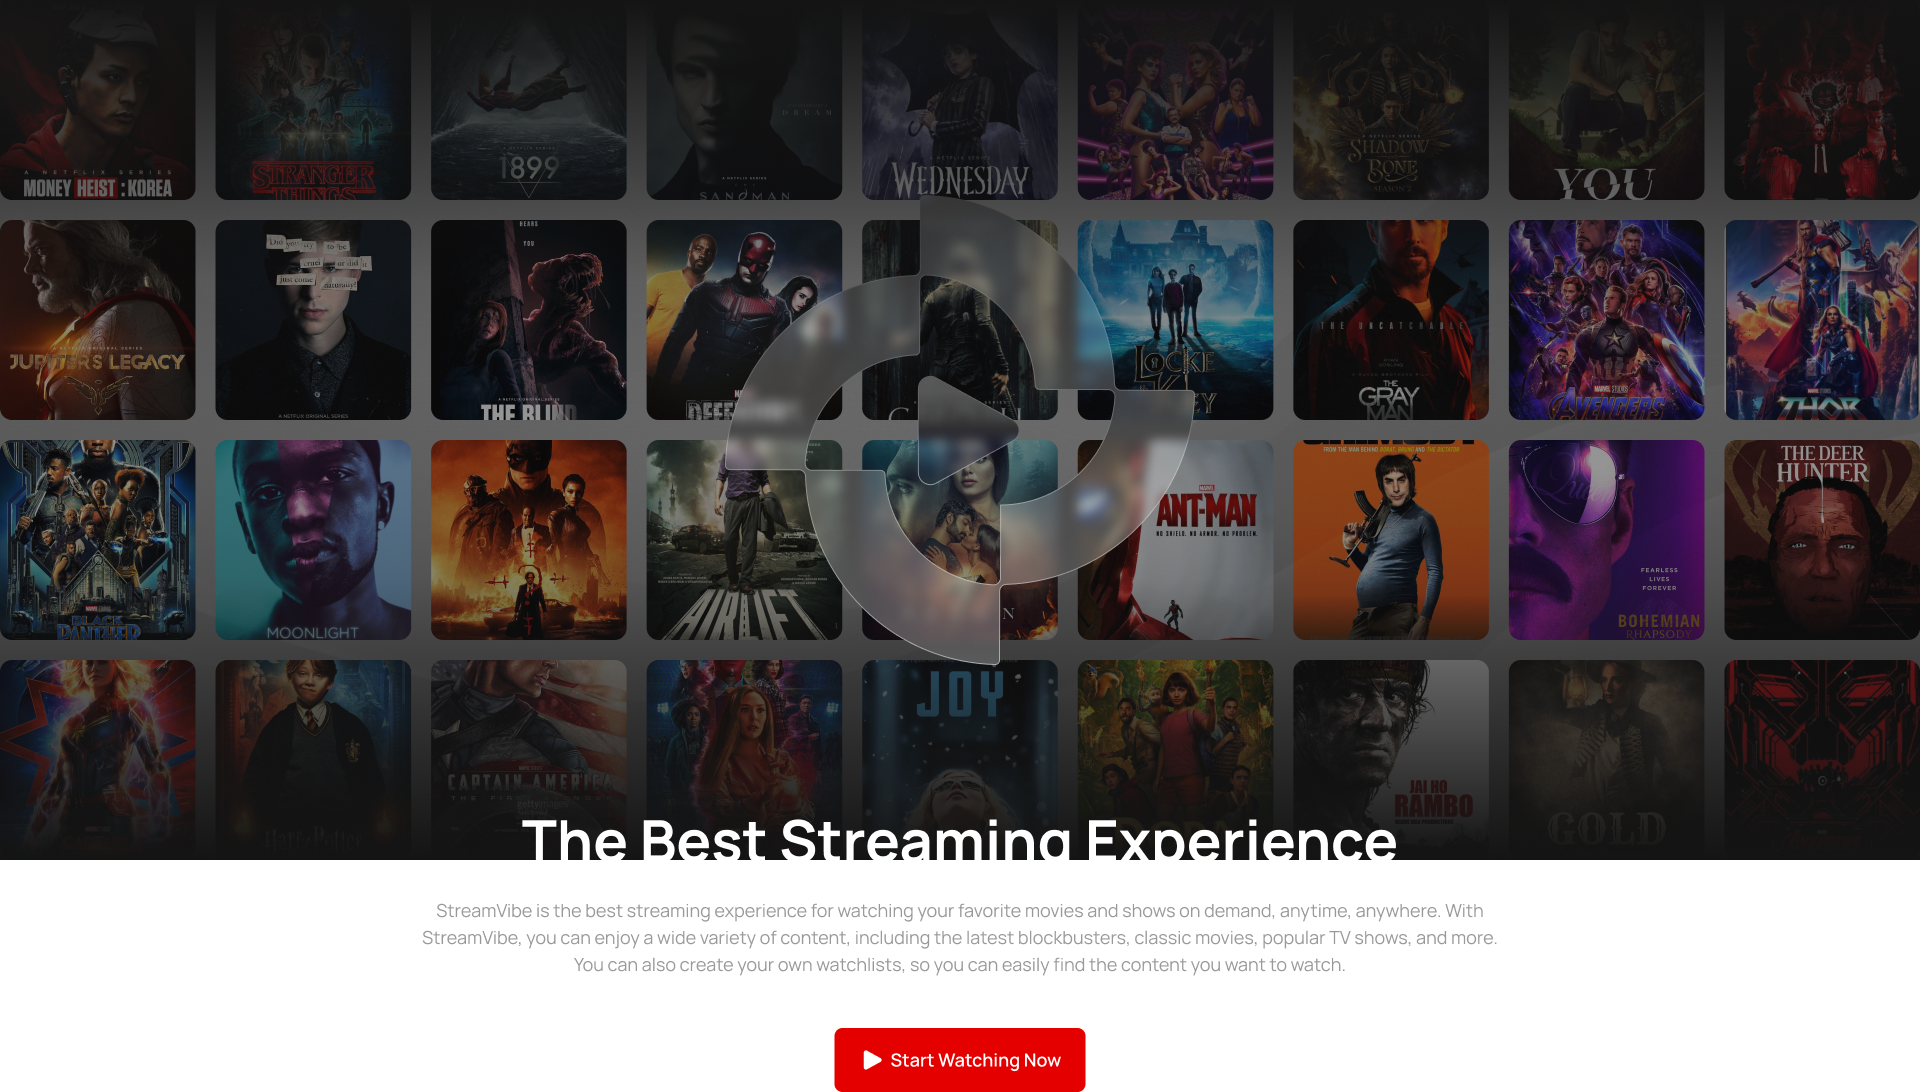
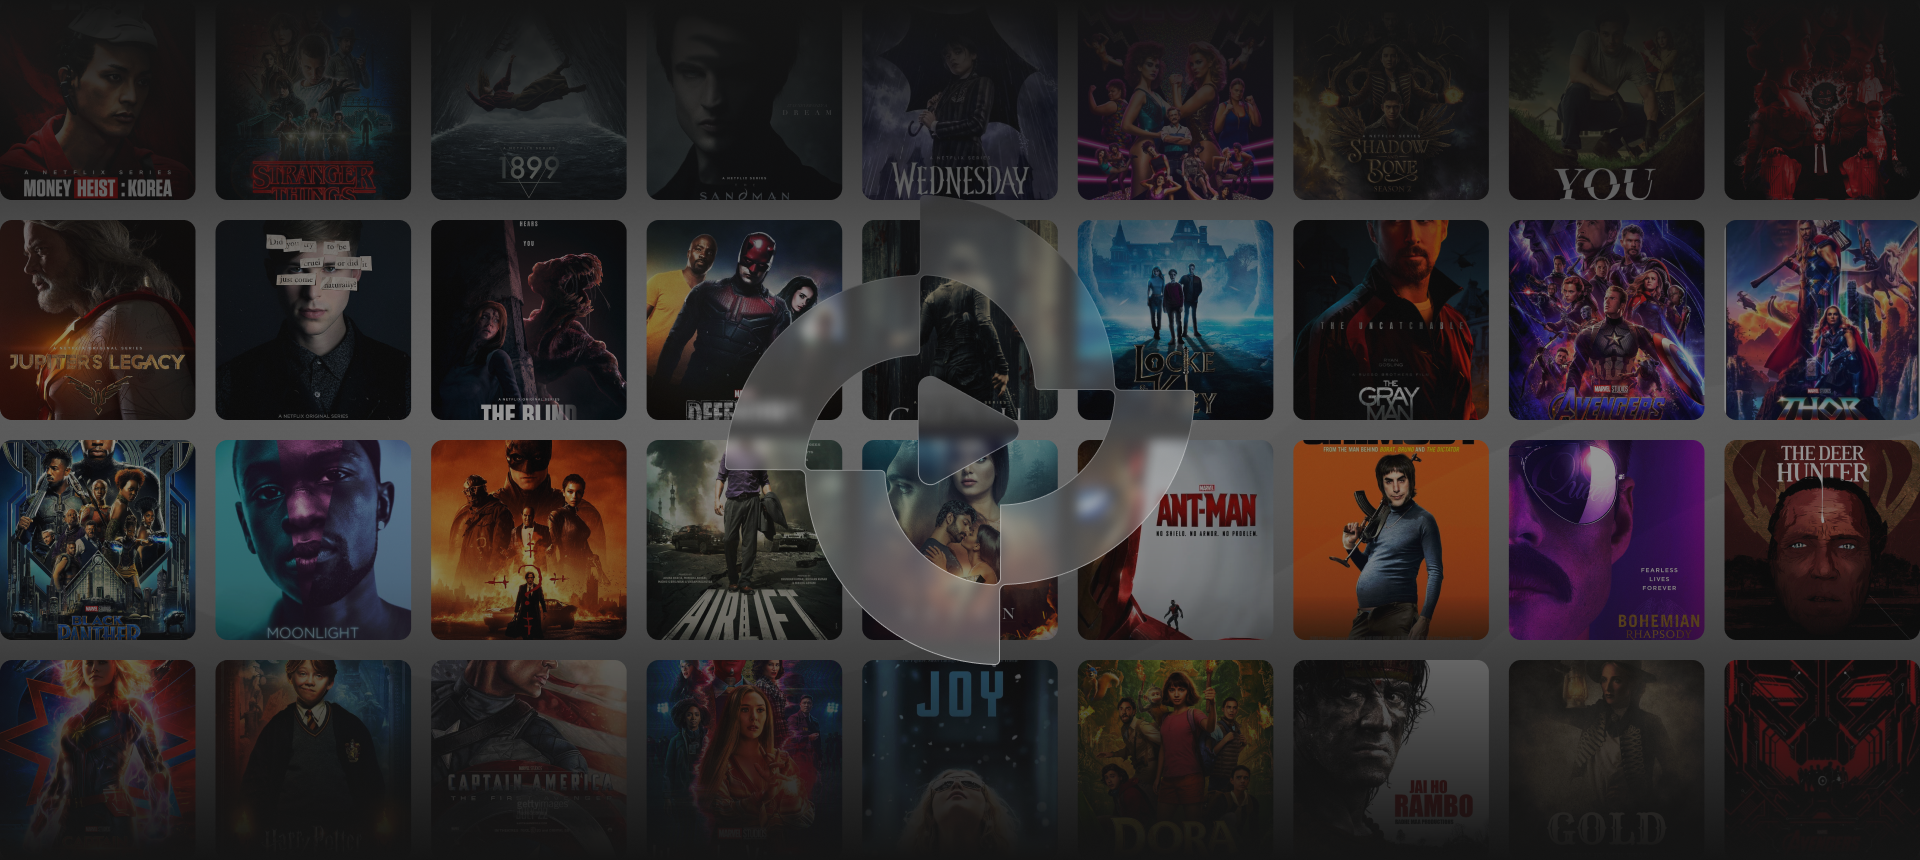
footer

diff --git a/src/App.js b/src/App.js
@@ -1,14 +1,19 @@
 import './App.css';
-import { publicRoutes } from './routes';
-import { BrowserRouter as Router, Routes, Route } from 'react-router-dom';
-import { useState } from 'react';
-import { Dialog } from '@headlessui/react';
-import { NavLink } from 'react-router-dom';
 import logo from './image/Logo.png';
 import iconSearch from './image/Iconsearch.png';
 import icon from './image/Icon.png';
 import button from './image/Button.png';
 import closer from './image/IconCloser.png';
+import iconFb from './image/ButtonFace.png';
+import iconTw from './image/ButtonTwitter.png';
+import iconIn from './image/ButtonIn.png';
+
+import { publicRoutes } from './routes';
+import { BrowserRouter as Router, Routes, Route } from 'react-router-dom';
+import { useState } from 'react';
+import { Dialog } from '@headlessui/react';
+import { NavLink } from 'react-router-dom';
+import { menuFooter } from './components/Footer';
 
 const navigation = [
     { name: 'Home', to: '/' },
@@ -22,7 +27,7 @@ function App() {
     return (
         <Router>
             <div className="App">
-                <header className="absolute inset-x-0 top-0 z-50">
+                <header className="absolute inset-x-0 top-0 z-60">
                     <nav className="flex  items-center justify-between p-6 lg:px-8" aria-label="Global">
                         <div className="flex lg:flex-1">
                             <NavLink to="/" className="-m-1.5 p-1.5">
@@ -93,7 +98,6 @@ function App() {
                         </Dialog.Panel>
                     </Dialog>
                 </header>
-
                 <div className="wrapper">
                     <Routes>
                         {publicRoutes.map((route, index) => {
@@ -103,6 +107,48 @@ function App() {
                     </Routes>
                 </div>
             </div>
+
+            <footer className="bg-black dark:bg-gray-900">
+                <div className="mx-auto w-full max-w-screen-2xl flex flex-col justify-between">
+                    <div className="grid grid-cols-2 gap-8 px-4 py-6 lg:py-8 md:grid-cols-4">
+                        <div className="flex my-5">
+                            {menuFooter.map((value, index) => {
+                                return (
+                                    <ul className="text-gray-500 dark:text-gray-400 font-medium mx-20" key={index}>
+                                        <h2 className="mb-6 text-sm font-semibold text-white uppercase dark:text-white">
+                                            {value.title}
+                                        </h2>
+                                        <li className="flex flex-col">
+                                            {value.value.map((link, index) => {
+                                                return (
+                                                    <span key={index} className="">
+                                                        {link}
+                                                    </span>
+                                                );
+                                            })}
+                                        </li>
+                                    </ul>
+                                );
+                            })}
+                            <div className="mx-10">
+                                <h2 className="mb-6 text-sm font-semibold text-white uppercase dark:text-white">
+                                    Connect With Us
+                                </h2>
+                                <button className="flex ">
+                                    <img className="px-1 w-15 h-10" alt="" src={iconFb} />
+                                    <img className="px-1 w-15 h-10" alt="" src={iconTw} />
+                                    <img className="px-1 w-15 h-10" alt="" src={iconIn} />
+                                </button>
+                            </div>
+                        </div>
+                    </div>
+                    <div className="mx-auto py-5 bg-black dark:bg-gray-700 md:flex md:items-center md:justify-between">
+                        <span className="text-sm text-gray-500 dark:text-gray-300 sm:text-center">
+                            © 2023 <a href="https://flowbite.com/">streamvibe</a>. All Rights Reserved.
+                        </span>
+                    </div>
+                </div>
+            </footer>
         </Router>
     );
 }

diff --git a/src/pages/Home/index.js b/src/pages/Home/index.js
@@ -1,9 +1,39 @@
-import imageHome from './images/Container.png';
+import imgHome from './images/Container.png';
+import iconPlay from './images/IconPlay.png';
+import { NavLink } from 'react-router-dom';
 
 function Home() {
     return (
-        <div>
-            <img alt="" src={imageHome} />
+        <div className="wrapper">
+            <div>
+                <img alt="" src={imgHome} />
+            </div>
+
+            <div>
+                <div>
+                    <div className="mx-auto max-w-7xl -mt-10">
+                        <div className="text-center">
+                            <h1 className="text-4xl font-bold tracking-tight text-white sm:text-6xl">
+                                The Best Streaming Experience
+                            </h1>
+                            <p className="mt-6 text-lg leading-8 text-gray-600">
+                                StreamVibe is the best streaming experience for watching your favorite movies and shows
+                                on demand, anytime, anywhere. With StreamVibe, you can enjoy a wide variety of content,
+                                including the latest blockbusters, classic movies, popular TV shows, and more. You can
+                                also create your own watchlists, so you can easily find the content you want to watch.
+                            </p>
+                            <div className="mt-10 flex items-center justify-center gap-x-6">
+                                <NavLink to="#" className="rounded-md px-3.5 py-2.5 text-sm font-semibold text-white">
+                                    <button className="flex bg-red-600 px-5 py-3 rounded-lg justify-center ">
+                                        <img alt="" src={iconPlay} />
+                                        <span className="mx-2 font-semibold">Start Watching Now</span>
+                                    </button>
+                                </NavLink>
+                            </div>
+                        </div>
+                    </div>
+                </div>
+            </div>
         </div>
     );
 }

diff --git a/src/components/Footer/index.js b/src/components/Footer/index.js
@@ -1,0 +1,9 @@
+const menuFooter = [
+    { title: 'Home', value: ['Categories', 'Devices', 'Pricing', 'FAQ'] },
+    { title: 'Movies', value: ['Gernes', 'Trending', 'New Release', 'Popular'] },
+    { title: 'Shows', value: ['Gernes', 'Trending', 'New Release', 'Popular'] },
+    { title: 'Support', value: ['Contact Us'] },
+    { title: 'Subscription', value: ['Plans', 'Features'] },
+];
+
+export { menuFooter };
